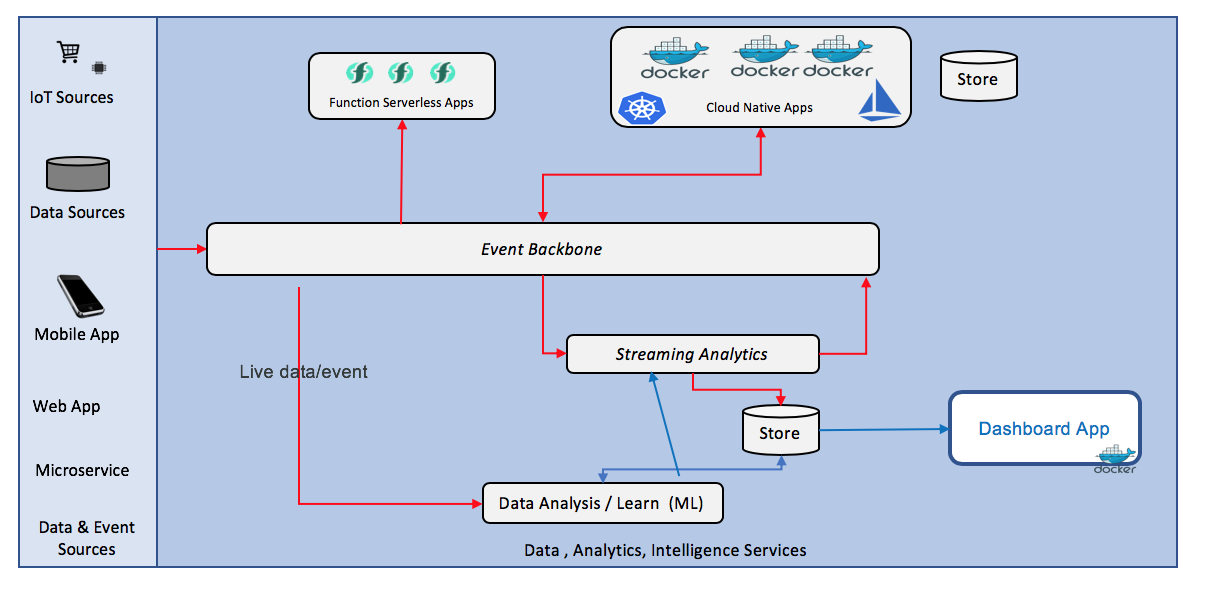
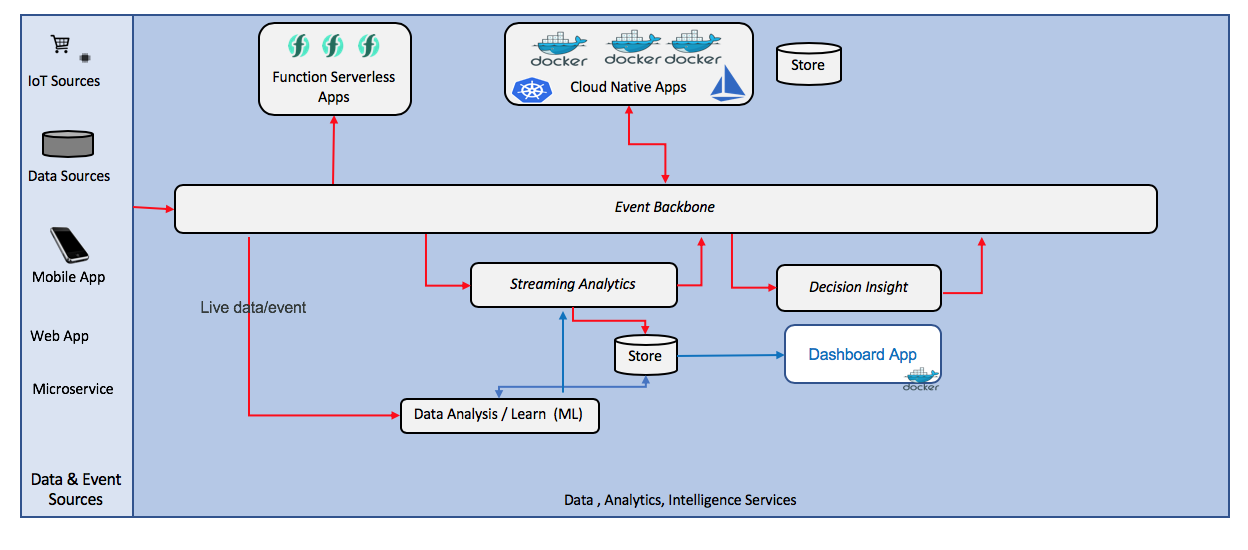
work on main diagram

diff --git a/README.md b/README.md
@@ -21,11 +21,70 @@ The high level component view can be summarized in the diagram below:
 ![](docs/hl-arch.png)  
 
 * Data sources reference events coming from IoT device, mobile app, webapp, database triggers or microservices. Click stream from webapp or mobile app are common events used for real time analytics.
-* The event backbone propagates events, which may be a hierarchy of messaging hub
-* Consumer will be functions, traditional application and microservices. Microservices are also producer. As microservice persists its own data in its own store. 
-* The bottom part of the diagram addresses real time streaming analytics supported by complex event processing runtime and analytics operations. There is also the opportunity to have data scientists connecting directly from a notebook to the topic and do real time data analysis, data cleansing and then train model on remote servers then deploy the model back to streaming analytics component...
+* The Event Backbone is the center of the Event driven architecture, proving the event communication layer with event log. It propagates events, which may be a hierarchy of messaging hub. The pub/sub style is used
+![]()
+* Consumer will be functions, traditional application and microservices. Microservices are also producers. As microservice persists its own data in its own store we can leverage EDA to manage data consistency, see [section below](#service-mesh).
+
+* The bottom part of the diagram addresses real time streaming analytics supported by complex event processing runtime and analytics operations.
+* Decision insight is a stateful operator to manage business decision on enriched event linked to business context and business entities. This is the cornerstone to apply business logic and best action using time related business rules.
+* There is also the opportunity to have data scientists connecting directly from a notebook to the topic and do real time data analysis, data cleansing and then train model on remote servers then deploy the model back to streaming analytics component...
 * Business dashboards are also necessary and may be connected to event store or object store... pulling data on regular basis.
- 
+
+### Event Backbone
+The Event Backbone propagates events, which may be a hierarchy of messaging hub. The pub/sub style is used. The event log represents the original source of truth and support the concept of event sourcing (see below) and event replay.
+
+![](docs/evt-backbone.png)  
+
+the Key features of an event Backbone:
+* Keep eventsStream history which facilitates stateless applications and microservices
+* Immutable data : Consistent replay for evolving application instances
+* Facilitate many consumers: Shared central “source of truth”
+* Event log history is becoming a useful source for data scientists and machine learning model derivation
+
+
+See also our [kafka article](https://github.com/ibm-cloud-architecture/refarch-analytics/tree/master/docs/kafka) on how to support HA and deployment to kubernetes.
+
+### Real-time analytics
+The real-time analytics component supports
+* Continuous event ingestion and analytics
+* Correlation across events and streams
+* Windowing and stateful compute
+* Consistent/high-volume streams of data
+
+The application pattern can be represented by the following diagram:
+![](docs/rt-analytic-app-pattern.png)
+
+* many sources of event are in the ingestion layer via connectors and event producer code.
+* the data preparation involves data transformation, filtering, correlate, aggregate some metrics and data enrichment by leveraging other data sources.
+* detect and predict events pattern using scoring, classification
+* decide by applying business rules and business logic
+* act by triggering process, business services, modifying business entities...
+
+
+### Function as a service
+As a event consumer functions deliver stateless discrete step or task for the global event processing. The serverless approach will bring cost efficiency for the just on-demand invocation. It fits well in post processing with the event processing.
+Cloud functions provides a simple way for developers to write code which takes action on an event.
+Serverless computing model, complete abstraction of infrastructure away from the developer
+No need to worry about infrastructure/scaling  
+Supports event notifications and event commands
+Cost model reflects simple event processing, pay for event processing compute time only
+
+### Decision Insights
+
+
+IBM [Operational Decision Manager Product documentation](https://www.ibm.com/support/knowledgecenter/en/SSQP76_8.9.1/com.ibm.odm.itoa.overview/topics/con_what_is_i2a.html)
+
+### Service mesh
+We are starting to address service mesh in [this note](https://github.com/ibm-cloud-architecture/refarch-integration/blob/master/docs/service-mesh/readme.md), and adopting messaging as a microservice communication backbone involves using at least the following patterns:
+* microservice publish events when something happens in the scope of their control, for example an update in the business entities they are responsible of.
+* microservice interested by other business entities, subscribe to those events and it can update its own states and business entities when receiving such events. Business entity keys needs to be unique, immutable.
+* Business transactions are not ACID and span multiple services, they are more a series of steps, each step is supported by a microservice responsible to update its own entities. We talk about eventual consistency of the data.
+* the message broker needs to guarantee that events are delivered at least once and the microservices are responsible to manage their offset from the stream source and deal with inconsistency, by detecting duplicate events.   
+* at the microservice level, updating data and emitting event needs to be an atomic operation, to avoid inconsistency if the service crashes after the update to the datasource and before emitting the event. This can be done with an eventTable added to the microservice datasource and an event publisher that read this table on a regular basis and change the state of the event once published. Another solution is to have a database transaction log reader or miner responsible to publish event on new row added to the log.
+* One other approach to avoid the two phase commit and inconsistency is to use an Event Store or event sourcing to keep trace of what is done on the business entity with enough data to rebuild the data. Events are becoming facts describing state changes done on the business entity.
+
+### Command Query Responsibility Segregation
+
 ## Related repositories
 * [Predictive maintenance - analytics and EDA](https://github.com/ibm-cloud-architecture/refarch-asset-analytics) how to mix Apache Kafka, stateful stream, Apache Cassandra and ICP for data to develop machine learning model deployed as a service.
 
